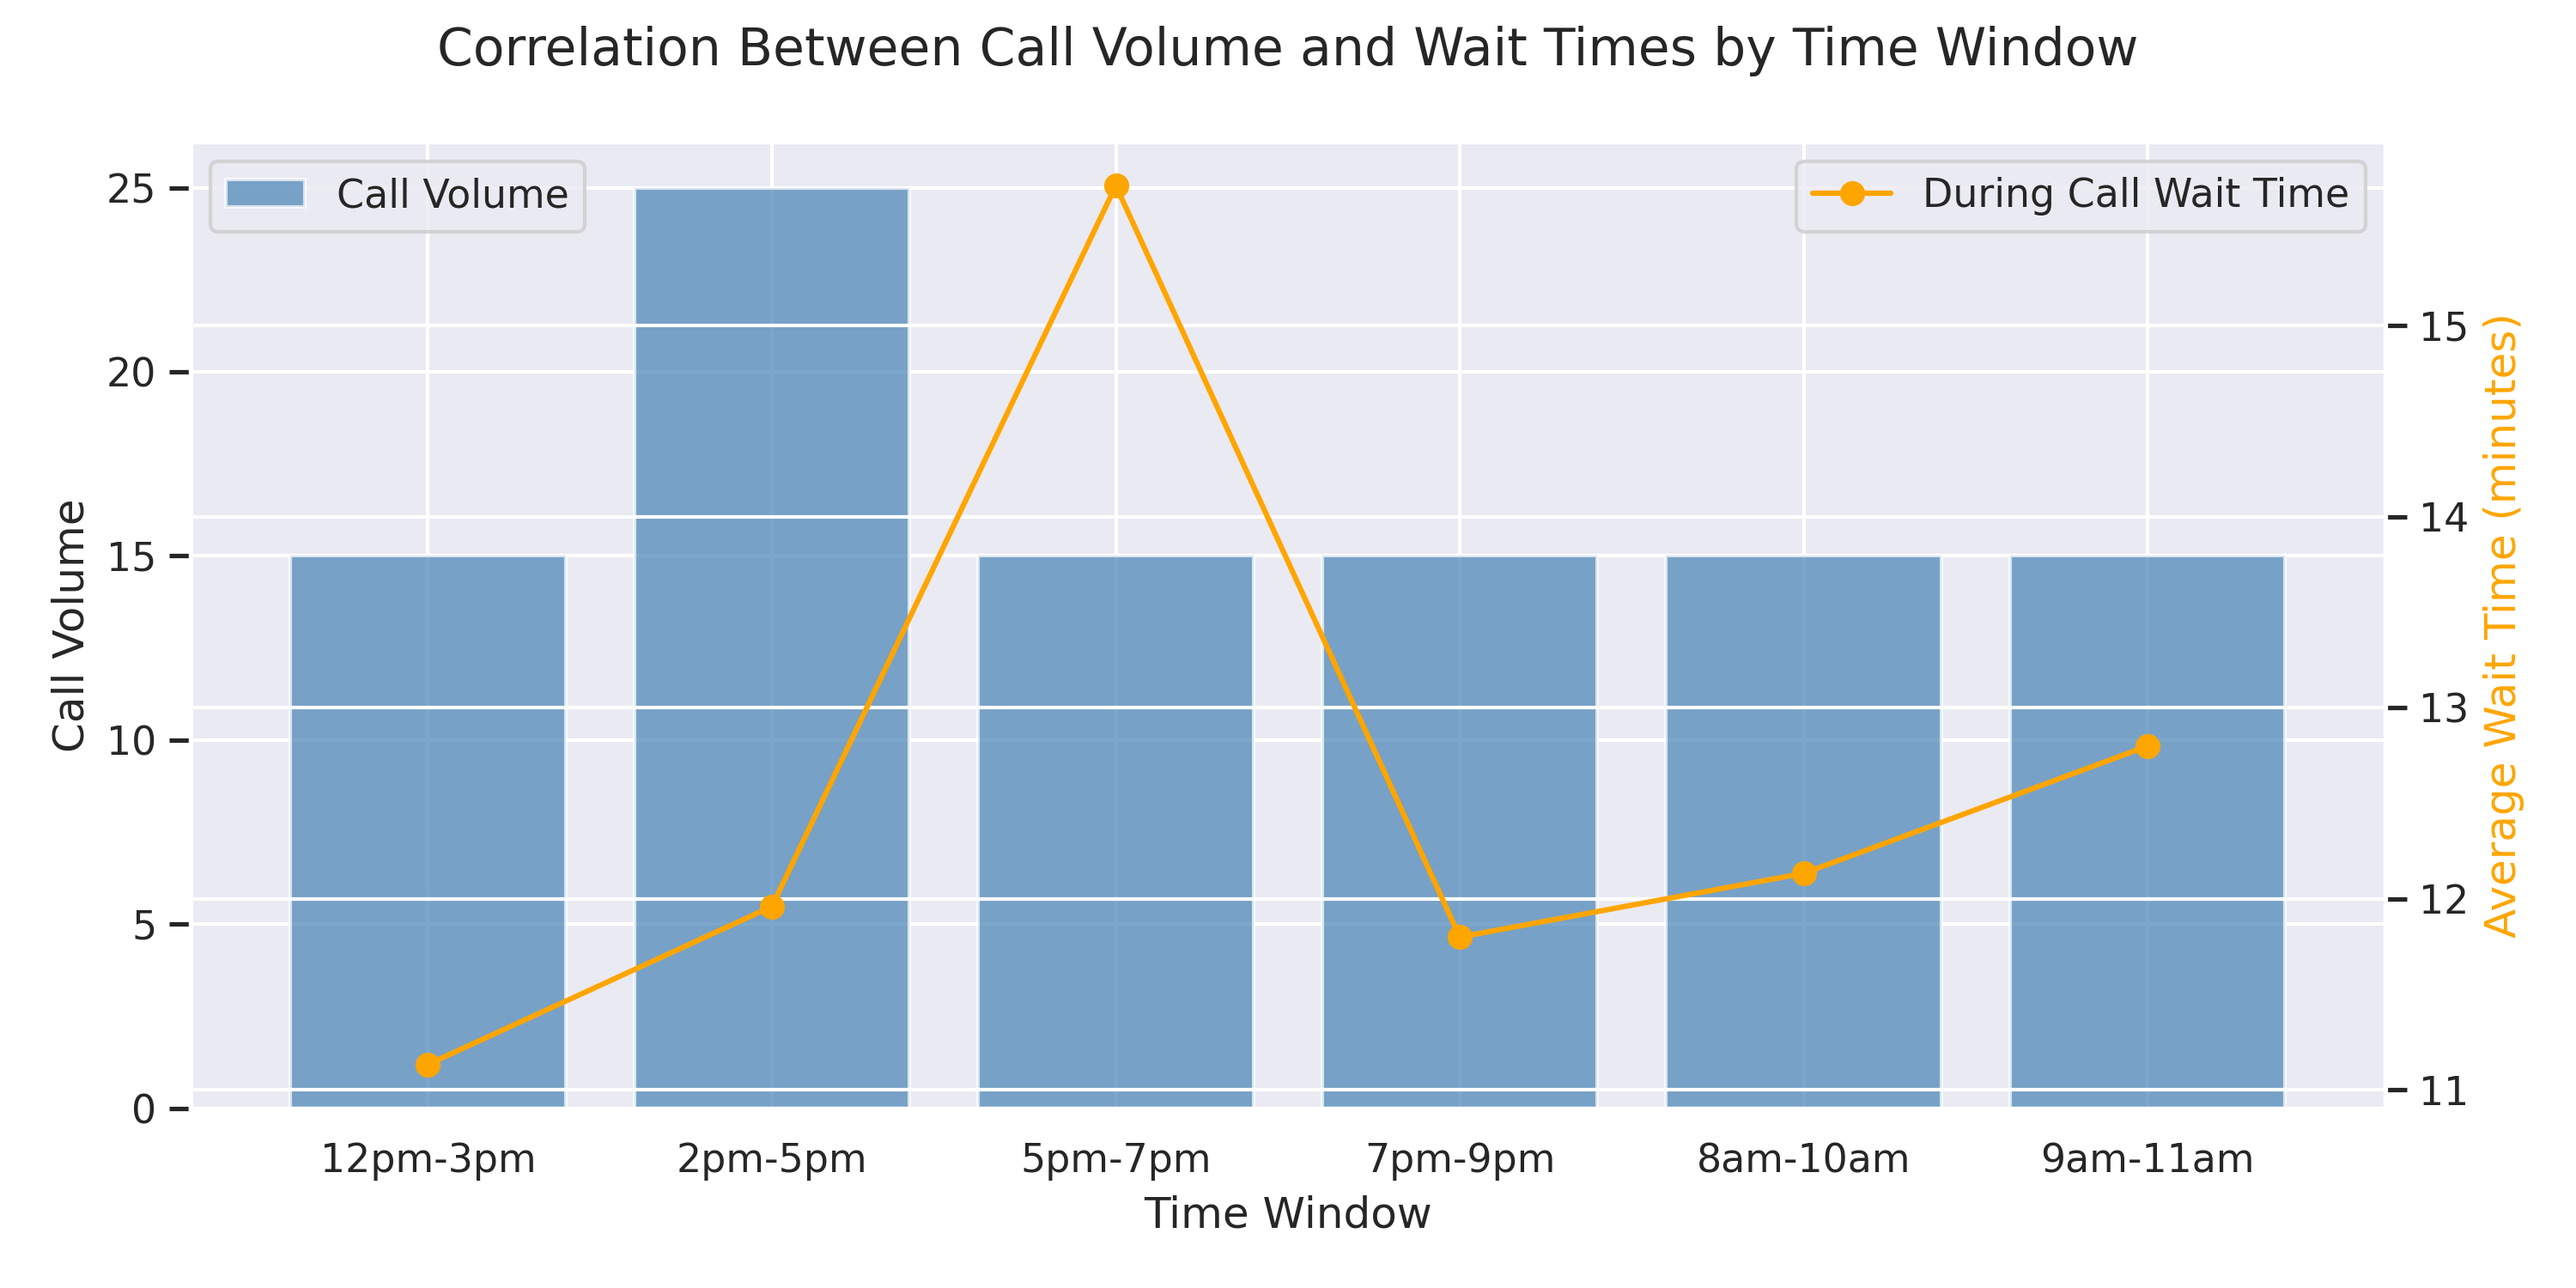
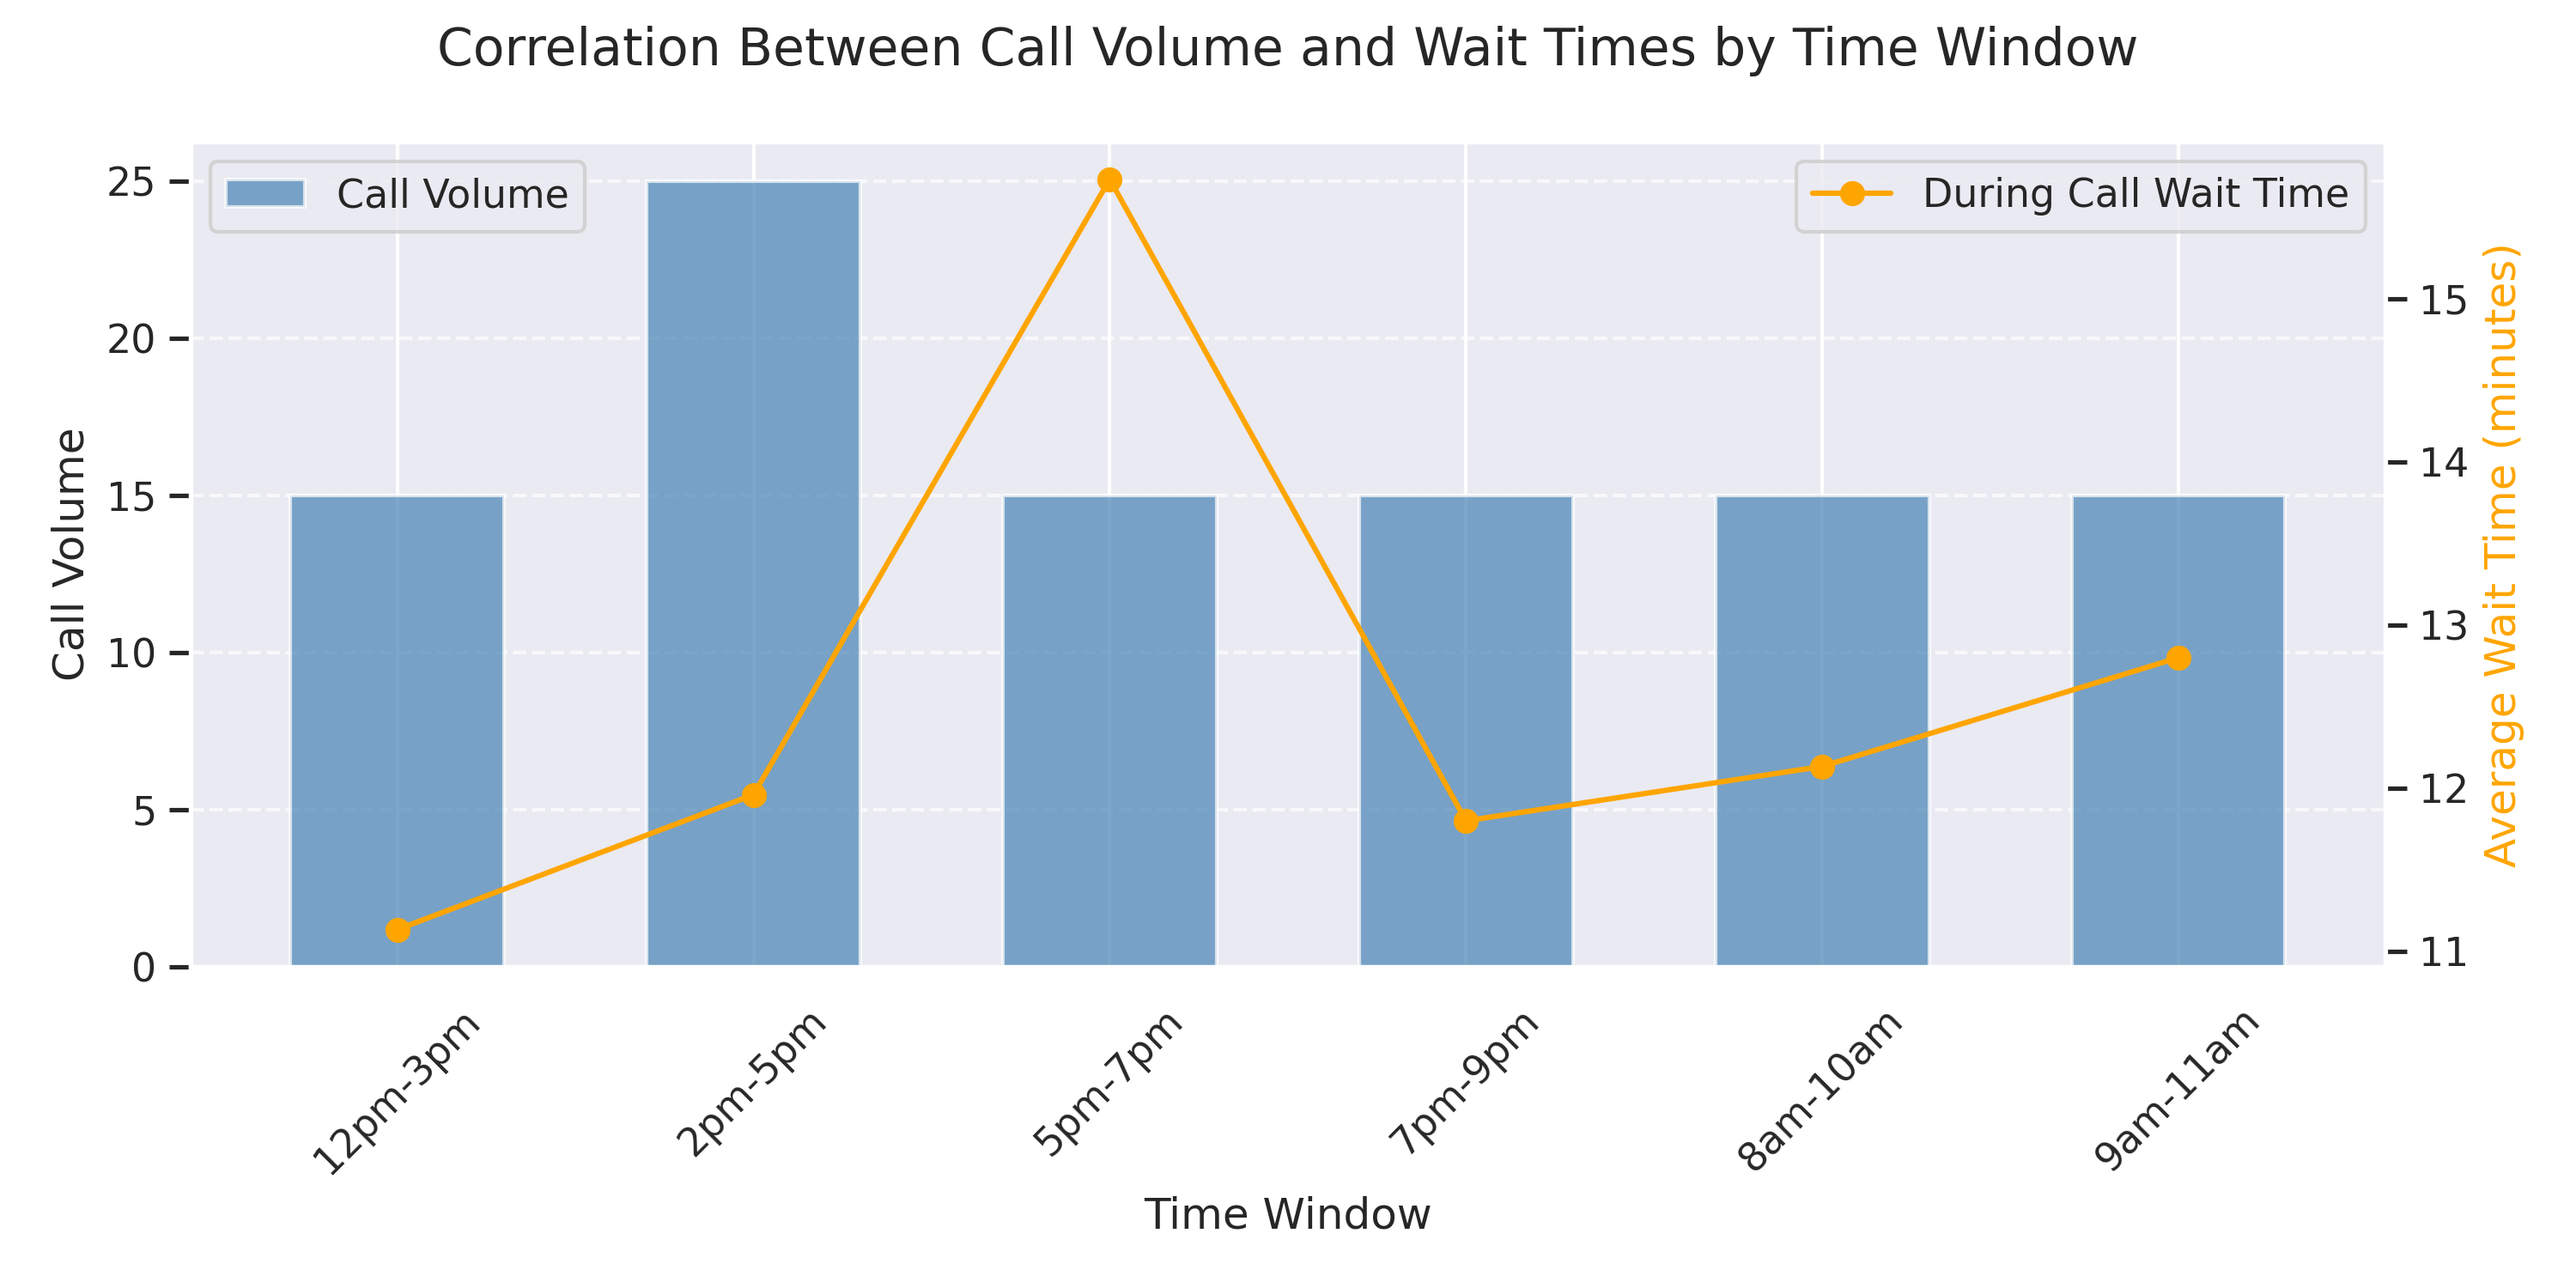
Add files via upload

diff --git a/la_peter_week_5_assignment.py b/la_peter_week_5_assignment.py
@@ -112,14 +112,20 @@ fig, ax1 = plt.subplots(figsize=(10, 5))
 color1 = 'steelblue'
 color2 = 'orange'
 
+width = 0.6
+
 ax1.set_xlabel('Time Window')
 ax1.set_ylabel('Call Volume')
-ax1.bar(time_window_analysis.index, time_window_analysis['call_count'], color=color1, alpha=0.7, label='Call Volume')
+ax1.bar(time_window_analysis.index, time_window_analysis['call_count'], color=color1, alpha=0.7, width=width, label='Call Volume')
 
 ax2 = ax1.twinx()
 ax2.set_ylabel('Average Wait Time (minutes)', color=color2)
 ax2.plot(time_window_analysis.index, time_window_analysis['avg_during_call_wait'],
          color=color2, marker='o', linestyle='-', label='During Call Wait Time')
+
+ax1.tick_params(axis="x", rotation=45)
+ax1.grid(axis="y", linestyle="--", alpha=0.7)
+ax2.grid(False)
 
 fig.suptitle('Correlation Between Call Volume and Wait Times by Time Window')
 ax1.legend(loc='upper left')
